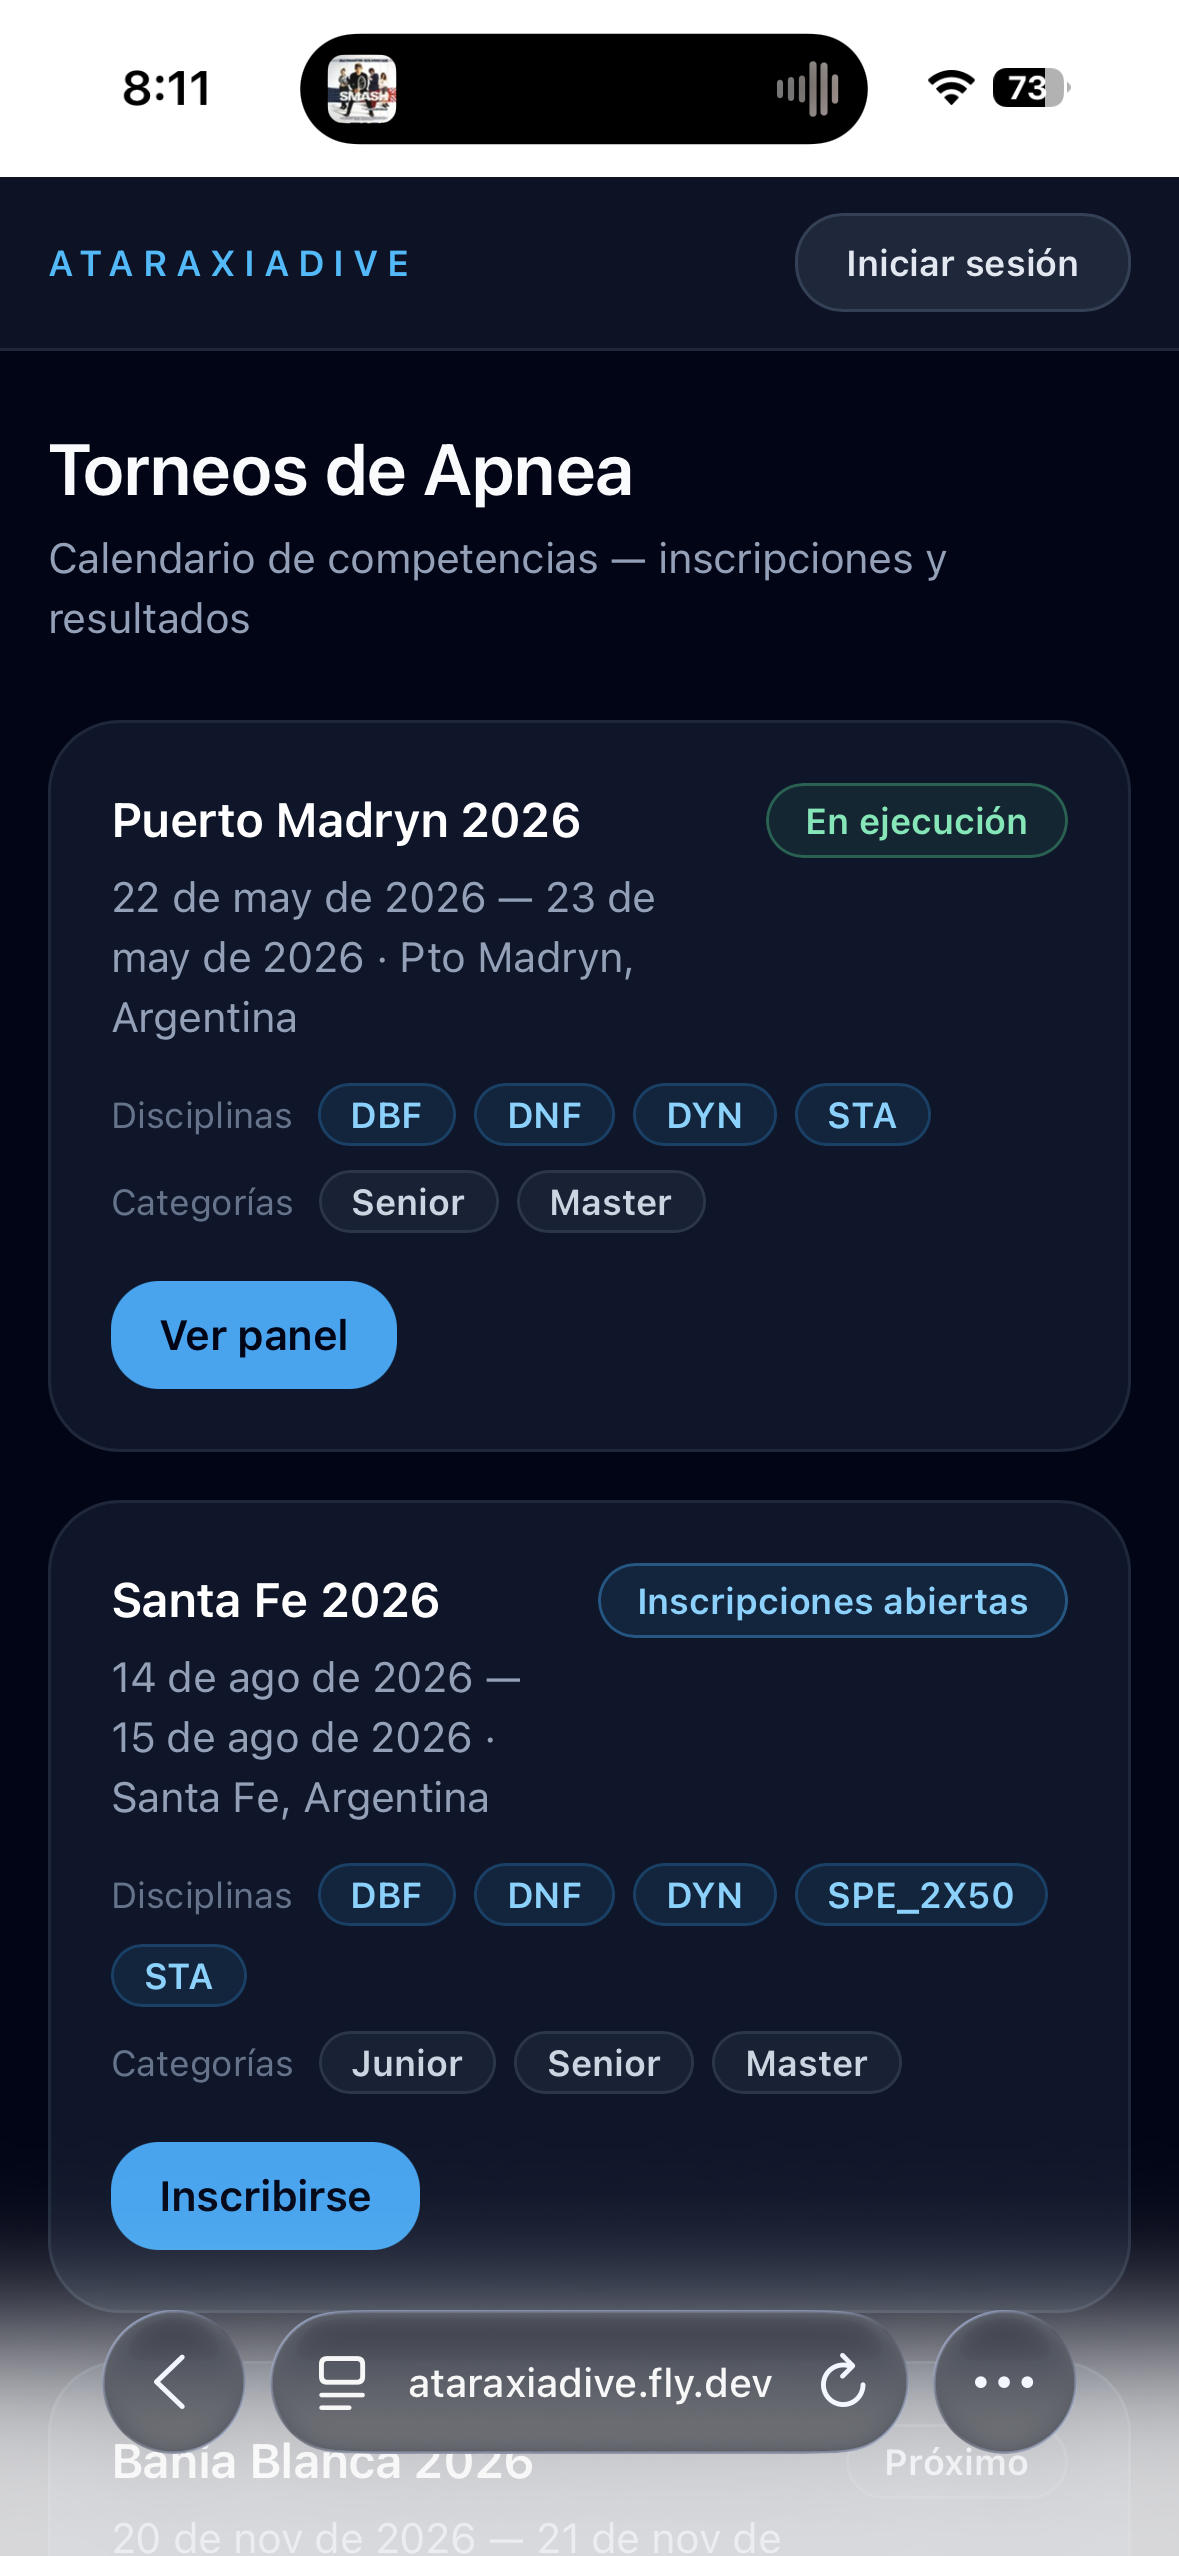
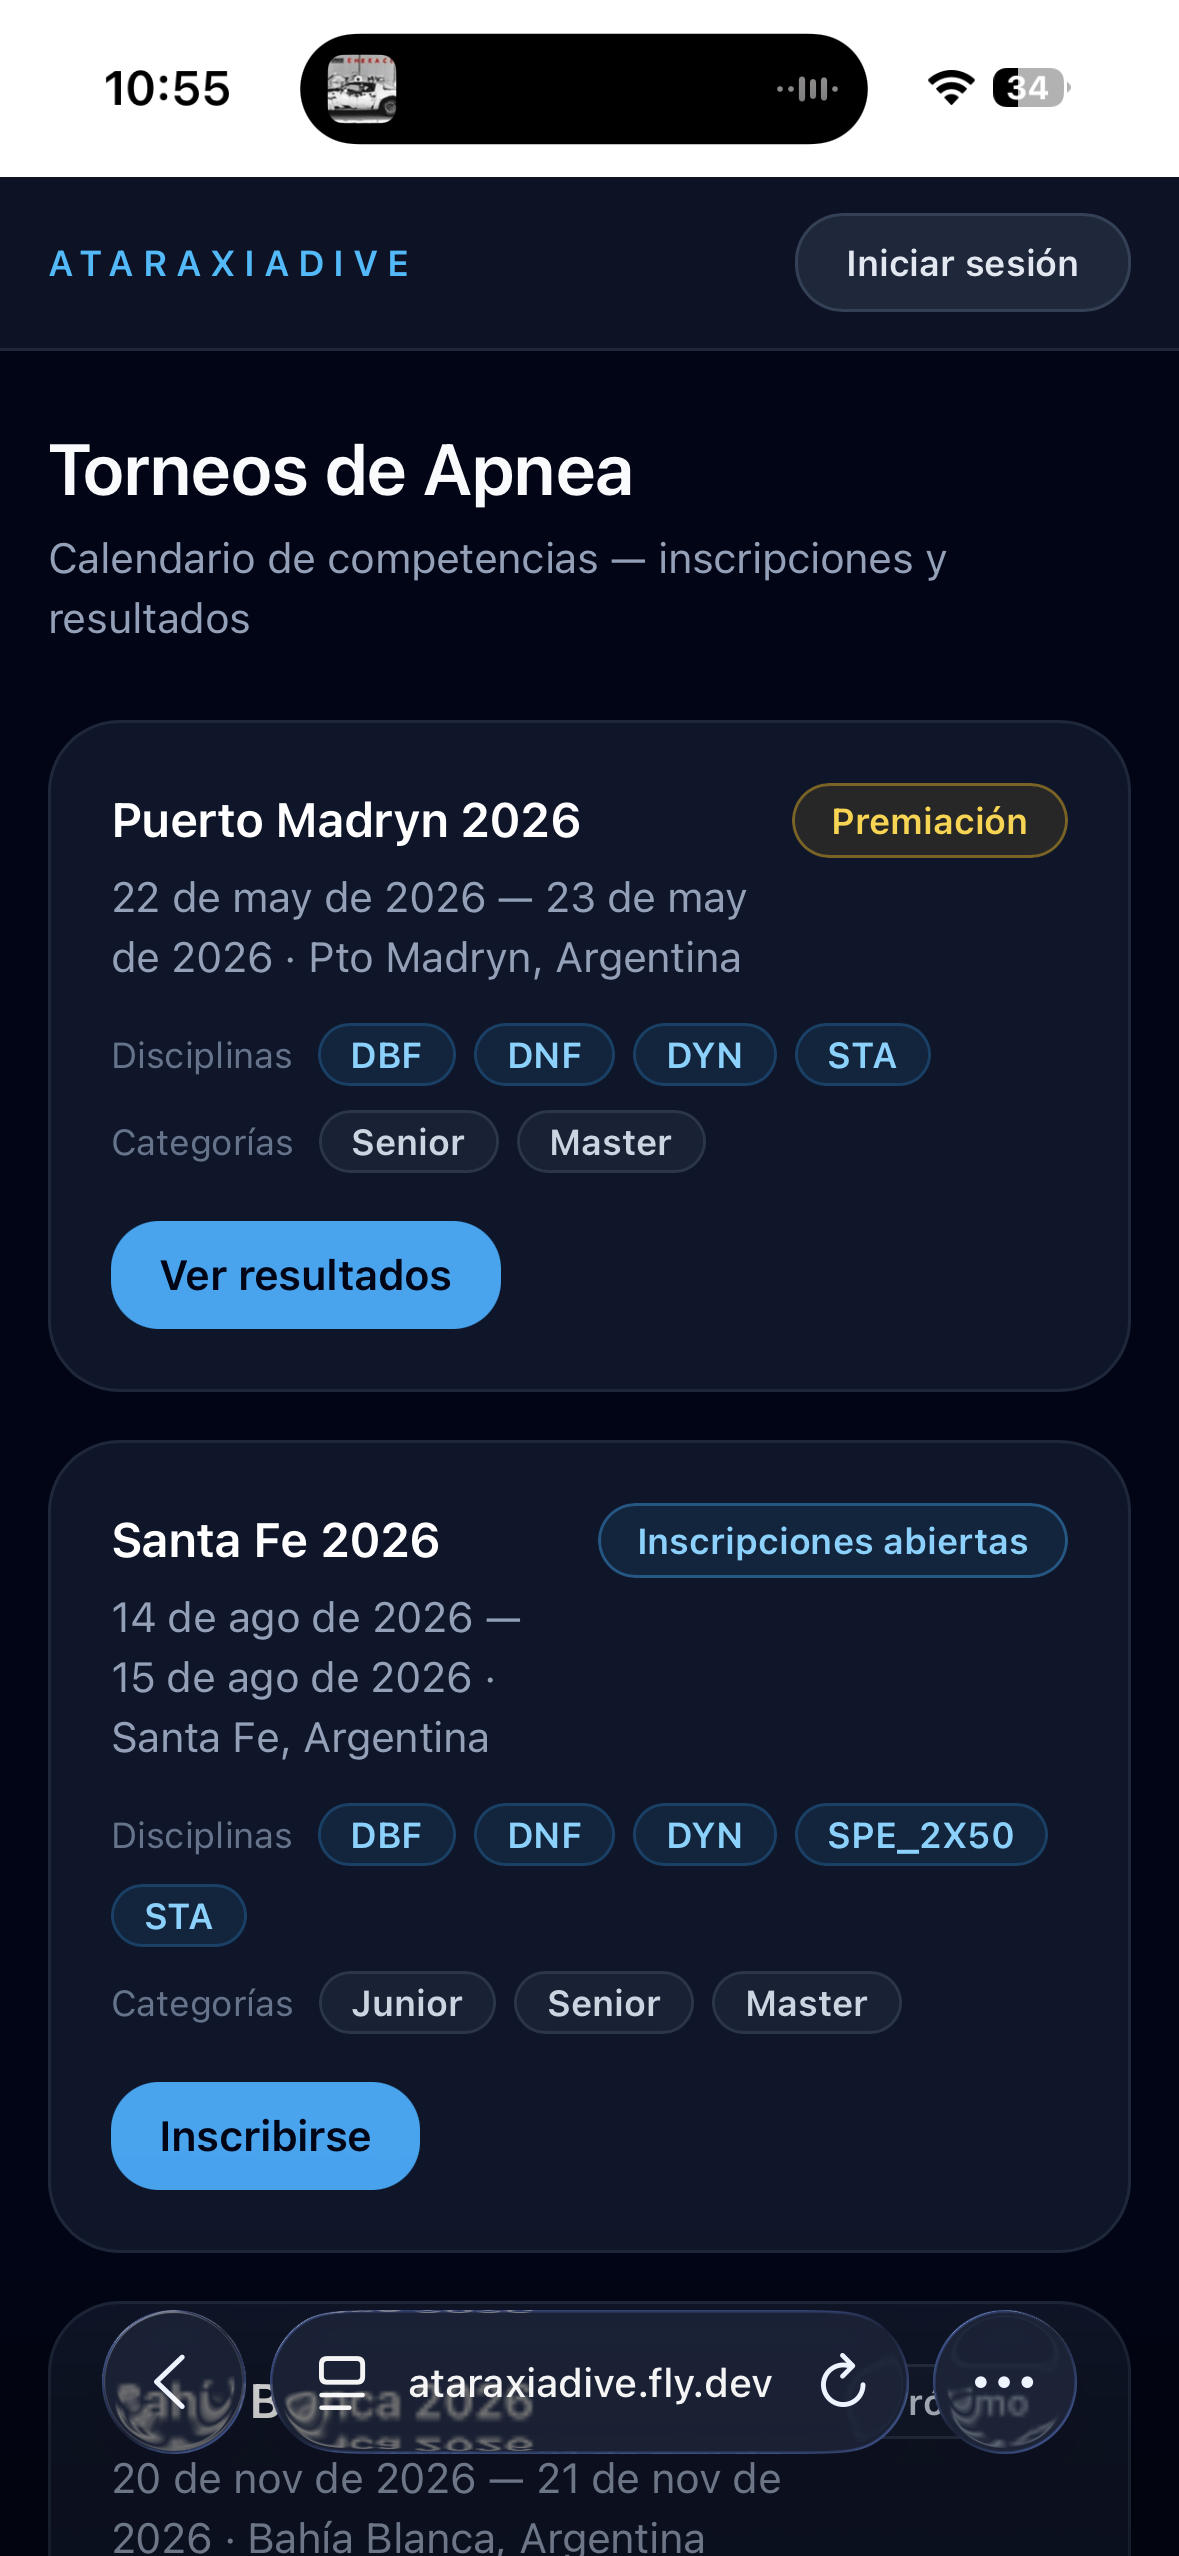
docs(manual): SP-ADJ-13 — portal público actualizado con capturas reales
- Corregir nombres de botones reales: Resultados / Podios / Inscribirse
- Tarjeta de lista: agregar Categorías y botón de acción, quitar organización
- Resultados: pestañas por disciplina y columnas Anuncio/OT/Performance/Tarjeta
- Podios: documentar las dos vistas (por disciplina y Overall) con capturas
- Nueva página anexa "Vista de escritorio" con capturas desktop
- CSS: capturas -desktop a ancho completo del contenido

diff --git a/manual/docs/assets/stylesheets/ataraxia.css b/manual/docs/assets/stylesheets/ataraxia.css
@@ -27,3 +27,8 @@
 .md-content img[src*="portal-organizador"] {
   max-width: 700px;
 }
+
+/* Capturas de escritorio (apaisadas) — usan el ancho completo del contenido */
+.md-content img[src*="-desktop"] {
+  max-width: 100% !important;
+}

diff --git a/manual/docs/portal-publico/vista-escritorio.md b/manual/docs/portal-publico/vista-escritorio.md
@@ -1,0 +1,33 @@
+# Vista de escritorio
+
+El portal público es **responsive**: se adapta automáticamente al tamaño de la pantalla. Las guías anteriores usan capturas tomadas desde el celular, pero desde una computadora vas a ver la misma información con un diseño de ancho completo.
+
+A continuación, las mismas pantallas vistas desde el navegador de escritorio.
+
+## Lista de torneos
+
+Las tarjetas se muestran centradas, con las disciplinas, categorías y el estado de cada torneo a la vista.
+
+![Lista de torneos — vista de escritorio](../assets/screenshots/portal-publico/lista-torneo-desktop.png)
+
+## Detalle de un torneo
+
+El detalle muestra el nombre, la organización, las fechas, la sede y los botones de acción (**Resultados** y **Podios**).
+
+![Detalle del torneo — vista de escritorio](../assets/screenshots/portal-publico/detalle-torneo-desktop.png)
+
+## Resultados
+
+El ranking de cada disciplina aprovecha el ancho de la pantalla para mostrar todas las columnas (**Anuncio**, **OT**, **Performance** y **Tarjeta**) con más detalle.
+
+![Resultados — vista de escritorio](../assets/screenshots/portal-publico/resultados-1-desktop.png)
+
+## Podios
+
+### Podio por disciplina
+
+![Podios por disciplina — vista de escritorio](../assets/screenshots/portal-publico/podios-desktop.png)
+
+### Podio Overall
+
+![Podios Overall — vista de escritorio](../assets/screenshots/portal-publico/podios-overall-desktop.png)

diff --git a/manual/docs/portal-publico/ver-resultados.md b/manual/docs/portal-publico/ver-resultados.md
@@ -2,22 +2,22 @@
 
 ## Resultados en tiempo real
 
-Cuando un torneo está **En ejecución**, podés seguir los resultados a medida que se van registrando. Desde el detalle del torneo, tocá **"Ver panel"** para acceder.
+Cuando un torneo está **En ejecución**, podés seguir los resultados a medida que se van registrando. Desde el detalle del torneo, tocá **"Resultados"** para acceder.
 
 ![Resultados DYN — performances pendientes](../assets/screenshots/portal-publico/resultados-dyn.png)
 
 La pantalla de resultados muestra:
 
-- Filtro por disciplina y categoría (género y edad)
-- Ranking actualizado con las performances registradas hasta el momento
-- Marca obtenida (RP) y estado de cada tarjeta (blanca, blanca con penalizaciones, roja)
-- Penalizaciones deducidas cuando corresponde
+- Pestañas por disciplina (DBF, DNF, DYN, STA…) para cambiar de ranking
+- El ranking ordenado de cada disciplina, con el club de cada atleta
+- Columnas: **Anuncio** (marca declarada / AP), **OT** (hora de inicio), **Performance** (marca realizada / RP) y **Tarjeta**
+- Estado de cada tarjeta (blanca, blanca con penalizaciones, roja, DNS) y el motivo cuando corresponde
 
 > Los resultados son provisorios durante la ejecución. Los valores finales se consolidan al cerrar el torneo.
 
 ## Resultados finales
 
-Una vez que el torneo pasa a estado **Premiación** o **Cerrado**, los resultados son definitivos. Podés acceder al ranking completo desde el detalle del torneo → **"Ver resultados"**.
+Una vez que el torneo pasa a estado **Premiación** o **Cerrado**, los resultados son definitivos. Podés acceder al ranking completo desde el detalle del torneo → **"Resultados"**.
 
 ![Resultados DNF — tarjetas Blanca, DNS y Roja](../assets/screenshots/portal-publico/resultados-dnf.png)
 
@@ -25,7 +25,17 @@ Una vez que el torneo pasa a estado **Premiación** o **Cerrado**, los resultado
 
 ## Podios
 
-Los podios están disponibles desde el estado **Premiación** en adelante. Muestran el top 3 de cada categoría con sus marcas.
+Los podios se habilitan desde el estado **Premiación** en adelante. Desde el detalle del torneo tocá el botón **"Podios"**.
 
-Desde el detalle del torneo tocá **"Ver podios"** (si el torneo lo habilita).
+### Podio por disciplina
+
+Para cada categoría (por género y edad) podés cambiar de disciplina con las pestañas (DBF, DNF, DYN, STA…) y ver el top 3 con su medalla, club y marca.
+
+![Podios por disciplina](../assets/screenshots/portal-publico/podios.png)
+
+### Podio Overall
+
+La vista **Overall** muestra el top 3 de cada categoría combinando todas las disciplinas — el resultado general del torneo.
+
+![Podios Overall](../assets/screenshots/portal-publico/podios-overall.png)
 

diff --git a/manual/docs/portal-publico/explorar-torneos.md b/manual/docs/portal-publico/explorar-torneos.md
@@ -5,11 +5,12 @@
 Al ingresar a la plataforma vas a ver el listado de todos los torneos. Cada tarjeta muestra:
 
 - Nombre del torneo
-- Organización responsable
-- Sede (ciudad y país)
 - Fechas (inicio — fin)
-- Disciplinas habilitadas
+- Sede (ciudad y país)
+- Disciplinas habilitadas (DBF, DNF, DYN, STA, SPE…)
+- Categorías (Junior, Senior, Master)
 - Estado del torneo
+- Botón de acción según el estado (**Ver resultados**, **Inscribirse**, etc.)
 
 ![Lista de torneos disponibles](../assets/screenshots/portal-publico/lista-torneos.png)
 
@@ -29,16 +30,16 @@ Al ingresar a la plataforma vas a ver el listado de todos los torneos. Cada tarj
 
 Tocá o hacé clic en cualquier tarjeta para ver más información:
 
-- Nombre del torneo y organización
+- Nombre del torneo y organización responsable
 - Sede completa (ciudad, país)
 - Fechas de inicio y fin
 - Estado actual con indicador visual
-- Botón de acción según el estado:
-    - **En ejecución** → "Ver panel" (resultados en tiempo real)
-    - **Premiación / Cerrado** → "Ver resultados"
-    - **Inscripciones abiertas** → "Inscribirse" (requiere sesión como atleta)
+- Botones de acción según el estado:
+    - **Resultados** → ranking de cada disciplina (disponible desde *En ejecución*)
+    - **Podios** → top 3 por categoría (se habilita en *Premiación* y *Cerrado*; aparece atenuado mientras el torneo está en ejecución)
+    - **Inscribirse** → cuando las inscripciones están abiertas (requiere sesión como atleta)
 
-![Detalle del torneo Puerto Madryn 2026](../assets/screenshots/portal-publico/detalle-torneo.png)
+![Detalle del torneo Puerto Madryn 2026 en Premiación](../assets/screenshots/portal-publico/detalle-torneo-2.png)
 
 ## Inscribirse a un torneo
 